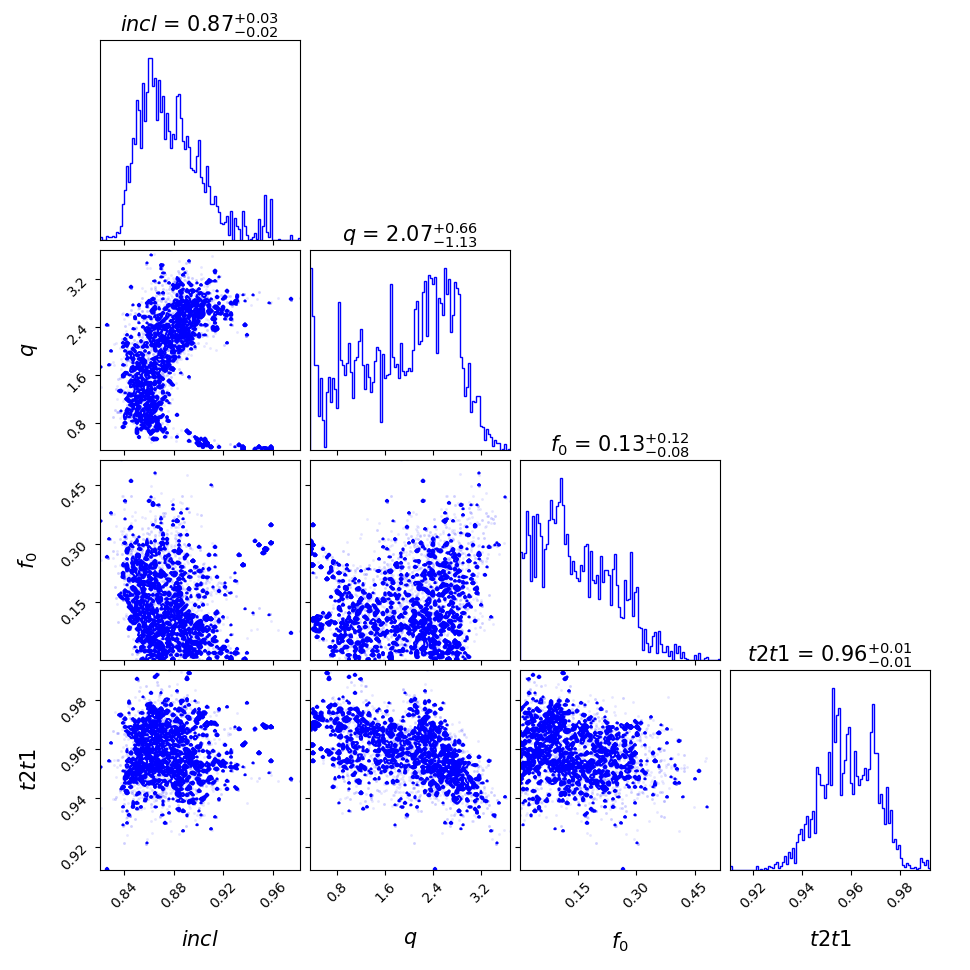
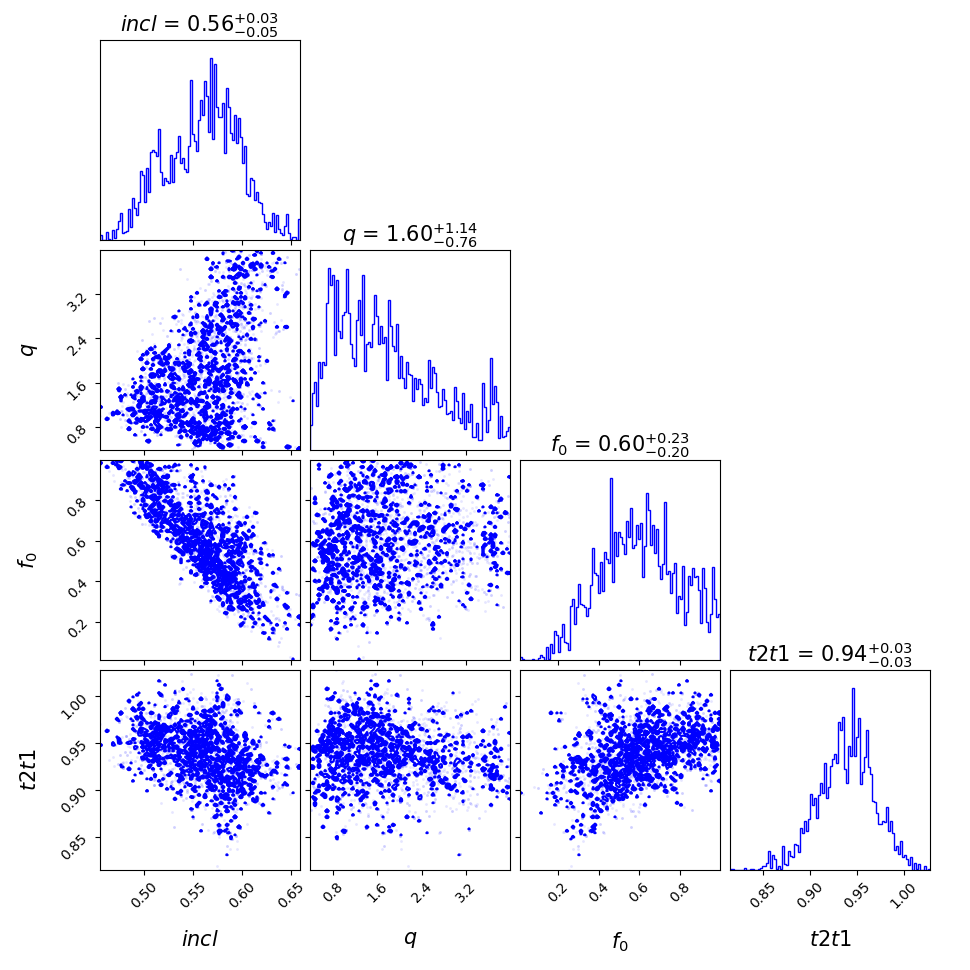
代码更新

diff --git a/code/ztfmcmcmodel/TESSMCMC/parameterslightcurve.py b/code/ztfmcmcmodel/TESSMCMC/parameterslightcurve.py
@@ -130,7 +130,7 @@ l3model10mc = load_model(path+'model10l3mc.hdf5')
 #data = np.loadtxt(path+file)
 
 path = 'E:\\shunbianyuan\\phometry\\pipelinecode\\ZTF\\code\\ztfmcmcmodel\\TESSMCMC\\EWDATA\\'
-file = 'TIC 1981434196.txt'
+file = 'TIC 123038007.txt'
 data = np.loadtxt(path+file)
 
 #fileone = 'ZTFtestdata.txt'
@@ -147,15 +147,15 @@ sigma = np.diff(noisy,2).std()/np.sqrt(6) #估计观测噪声值
 nwalkers = 20
 niter = 500
 nburn=200 #保留最后多少点用于计算
-index = 1
+index = 0
 
 #初始范围[T，incl,q,f,t2t1,l3] T/5850 incl/90 
-init_dist = [(1.01, 1.05), 
-             (0.7, 0.8),
-             (1, 4), 
-             (0.7, 0.9),
-             (0.89, 0.96),
-             (0.1,0.3)]
+init_dist = [(1.21+0.0001, 1.21+0.0002), 
+             (0.9, 0.99),
+             (0, 0.4), 
+             (0.2, 0.9),
+             (0.89, 1.2)
+            ]
 
 priors=init_dist.copy()
 ndim = len(priors) #维度数
@@ -200,8 +200,6 @@ def lnprob(z): #计算后仰概率
     if not np.isfinite(lnp):
             return -np.inf
          
-    print('it is ok')
-
     output = predict(z)
 
     lnp = -0.5*np.sum(np.log(2 * np.pi * sigma ** 2)+(output-noisy)**2/(sigma**2)) #计算似然函数
@@ -243,11 +241,11 @@ else:
 
 ####################绘图
 if index == 1:
-    figure = corner.corner(emcee_trace.T,bins=100,labels=[r"$Tem$", r"$incl$", r"$q$", r"$f_0$", r"$t2t1$", r"$l3$"],
+    figure = corner.corner(emcee_trace.T[:,1:],bins=100,labels=[r"$incl$", r"$q$", r"$f_0$", r"$t2t1$", r"$l3$"],
                        label_kwargs={"fontsize": 15},show_titles=True, title_kwargs={"fontsize": 15}, color ='blue')
 
 if index == 0:
-    figure = corner.corner(emcee_trace.T,bins=100,labels=[r"$Tem$", r"$incl$", r"$q$", r"$f_0$", r"$t2t1$"],
+    figure = corner.corner(emcee_trace.T[:,1:],bins=100,labels=[r"$incl$", r"$q$", r"$f_0$", r"$t2t1$"],
                        label_kwargs={"fontsize": 15},show_titles=True, title_kwargs={"fontsize": 15}, color ='blue')
     
 plt.savefig('corner.png')

diff --git a/code/ztfmcmcmodel/TESSMCMC/distributionparameters.py b/code/ztfmcmcmodel/TESSMCMC/distributionparameters.py
@@ -18,44 +18,50 @@ lightdata = np.loadtxt(path+'savedata01050Tl3.txt')
 
 plt.figure(0)
 T = lightdata[:,100]
-sns.kdeplot(T*5850,shade=True)
-plt.title('T',fontsize=18)
-plt.xlabel('T',fontsize=18)
-plt.ylabel('frequency',fontsize=18)
+#sns.kdeplot(T*5850,shade=True)
+plt.hist(T*5850, bins=1000)
+plt.title('T1',fontsize=18)
+plt.xlabel('T1',fontsize=18)
+plt.ylabel('number',fontsize=18)
 
 
 plt.figure(1)
 incldata = lightdata[:,102]
-sns.kdeplot(incldata,shade=True)
+#sns.kdeplot(incldata,shade=True)
+plt.hist(incldata, bins=1000)
 plt.title('incl',fontsize=18)
 plt.xlabel('incl',fontsize=18)
-plt.ylabel('frequency',fontsize=18)
+plt.ylabel('number',fontsize=18)
 
 plt.figure(2)
 qdata = lightdata[:,103]
-sns.kdeplot(qdata,shade=True)
+#sns.kdeplot(qdata,shade=True)
+plt.hist(qdata, bins=1000)
 plt.title('q',fontsize=18)
 plt.xlabel('q',fontsize=18)
-plt.ylabel('frequency',fontsize=18)
+plt.ylabel('number',fontsize=18)
 
 plt.figure(3)
 rdata = lightdata[:,104]
-sns.kdeplot(rdata,shade=True)
+#sns.kdeplot(rdata,shade=True)
+plt.hist(rdata, bins=1000)
 plt.title('f',fontsize=18)
 plt.xlabel('f',fontsize=18)
-plt.ylabel('frequency',fontsize=18)
+plt.ylabel('number',fontsize=18)
 
 plt.figure(4)
 tdata = lightdata[:,105]
-sns.kdeplot(tdata,shade=True)
+#sns.kdeplot(tdata,shade=True)
+plt.hist(tdata, bins=1000)
 plt.title('T2/T1',fontsize=18)
 plt.xlabel('T2/T1',fontsize=18)
-plt.ylabel('frequency',fontsize=18)
+plt.ylabel('number',fontsize=18)
 
 
 plt.figure(5)
-tdata = lightdata[:,106]
-sns.kdeplot(tdata,shade=True)
+l3data = lightdata[:,106]
+#sns.kdeplot(tdata,shade=True)
+plt.hist(l3data, bins=1000)
 plt.title('l3',fontsize=18)
 plt.xlabel('l3',fontsize=18)
-plt.ylabel('frequency',fontsize=18)
+plt.ylabel('number',fontsize=18)

diff --git a/code/ztfmcmcmodel/KeplerMC/parameterslightcurve.py b/code/ztfmcmcmodel/KeplerMC/parameterslightcurve.py
@@ -130,7 +130,7 @@ l3model10mc = load_model(mpath+'model10l3mc.hdf5')
 #data = np.loadtxt(path+file)
 
 path = 'E:\\shunbianyuan\\data\\kepler\\KIC_name\\'
-fileone = 'KIC 11618883.txt'
+fileone = 'KIC 3127873.txt'
 data = np.loadtxt(path+fileone)
 
 phrase = data[:,0]
@@ -144,15 +144,15 @@ sigma = np.diff(noisy,2).std()/np.sqrt(6) #估计观测噪声值
 nwalkers = 30
 niter = 500
 nburn=200 #保留最后多少点用于计算
-index = 1
+index = 0
 
 #初始范围[T/5850，incl/90,q,f,t2t1,l3]
-init_dist = [(0.70, 0.78), 
-             (0.84, 0.99), 
-             (0.20, 0.5), 
-             (0.65, 1), 
-             (0.90, 1.2),
-             (0.43, 1)]
+init_dist = [(1.06+0.0001, 1.06+0.0002), 
+             (0.84, 0.96), 
+             (0.04, 0.2), 
+             (0, 1), 
+             (0.8, 1.2)
+             ]
 
 priors=init_dist.copy()
 ndim = len(priors) #维度数
@@ -237,11 +237,11 @@ else:
 
 ####################绘图
 if index == 1:
-    figure = corner.corner(emcee_trace.T,bins=100,labels=[r"$Tem$", r"$incl$", r"$q$", r"$f_0$", r"$t2t1$", r"$l3$"],
+    figure = corner.corner(emcee_trace.T[:,1:],bins=100,labels=[r"$incl$", r"$q$", r"$f_0$", r"$t2t1$", r"$l3$"],
                        label_kwargs={"fontsize": 15},show_titles=True, title_kwargs={"fontsize": 15}, color ='blue')
 
 if index == 0:
-    figure = corner.corner(emcee_trace.T,bins=100,labels=[r"$Tem$", r"$incl$", r"$q$", r"$f_0$", r"$t2t1$"],
+    figure = corner.corner(emcee_trace.T[:,1:],bins=100,labels=[r"$incl$", r"$q$", r"$f_0$", r"$t2t1$"],
                        label_kwargs={"fontsize": 15},show_titles=True, title_kwargs={"fontsize": 15}, color ='blue')
     
 plt.savefig('corner.png')

diff --git a/code/ztfmcmcmodel/ZTFMCMC/parameterslightcurve.py b/code/ztfmcmcmodel/ZTFMCMC/parameterslightcurve.py
@@ -146,11 +146,12 @@ nburn=200 #保留最后多少点用于计算
 index = 0
 
 #初始范围[T/5850，incl/90,q,f,t2t1,l3]
-init_dist = [(0.8, 0.8), 
-             (0.77, 1.0), 
-             (0.1, 10), 
+init_dist = [(1+0.0001, 1+0.0002), 
+             (0.3, 0.75), 
+             (0, 4), 
              (0, 1), 
-             (0.90, 1)]
+             (0.80, 1.2)
+             ]
 
 priors=init_dist.copy()
 ndim = len(priors) #维度数
@@ -222,8 +223,16 @@ t1=time.time()
 emcee_trace  = run(priors, nwalkers, niter,nburn) #run mcmc
 print('time=',time.time()-t1) #MCMC运行时间
 
+#if index == 0:
+#    mu = [np.median(emcee_trace[0,:]), np.median(emcee_trace[1,:]), np.median(emcee_trace[2,:]), 
+#      np.median(emcee_trace[3,:]), np.median(emcee_trace[4,:])]
+#if index == 1:
+#    mu = [np.median(emcee_trace[0,:]), np.median(emcee_trace[1,:]), np.median(emcee_trace[2,:]), 
+#      np.median(emcee_trace[3,:]), np.median(emcee_trace[4,:]), np.median(emcee_trace[5,:])]
+#
+#mu = np.array(mu)  
 
-mu=(emcee_trace.mean(axis=1)) #参数均值
+mu=(emcee_trace.mean(axis=1)) #参数均值  
 sigma=(emcee_trace.std(axis=1)) #参数误差
 print('mu=',mu)
 print('sigma=',sigma)
@@ -250,7 +259,7 @@ pre=predict(mu.reshape(1,-1))
 plt.figure()
 ax = plt.gca()
 ax.plot(x,noisy,'.') #原始数据
-ax.plot(phrase+phrase[10], datay, '.', c = 'b')
+ax.plot(phrase-phrase[0], datay, '.', c = 'b')
 #ax.plot(x,pre.flatten(),'-r') #理论数据
 #ax.plot(times, resultflux, '*', c='g') #理论数据
 ax.plot(x, pre,'-r') #理论数据

diff --git a/code/ztfmcmcmodel/TESSMCMC/nol3distributionparameters.py b/code/ztfmcmcmodel/TESSMCMC/nol3distributionparameters.py
@@ -18,36 +18,41 @@ lightdata = np.loadtxt(path+'savedata01050T.txt')
 
 plt.figure(0)
 T = lightdata[:,100]
-sns.kdeplot(T*5850,shade=True)
-plt.title('T',fontsize=18)
-plt.xlabel('T',fontsize=18)
-plt.ylabel('frequency',fontsize=18)
+#sns.kdeplot(T*5850,shade=True)
+plt.hist(T*5850, bins=1000)
+plt.title('T1',fontsize=18)
+plt.xlabel('T1',fontsize=18)
+plt.ylabel('number',fontsize=18)
 
 
 plt.figure(1)
 incldata = lightdata[:,102]
-sns.kdeplot(incldata,shade=True)
+#sns.kdeplot(incldata,shade=True)
+plt.hist(incldata, bins=1000)
 plt.title('incl',fontsize=18)
 plt.xlabel('incl',fontsize=18)
-plt.ylabel('frequency',fontsize=18)
+plt.ylabel('number',fontsize=18)
 
 plt.figure(2)
 qdata = lightdata[:,103]
-sns.kdeplot(qdata,shade=True)
+#sns.kdeplot(qdata,shade=True)
+plt.hist(qdata, bins=1000)
 plt.title('q',fontsize=18)
 plt.xlabel('q',fontsize=18)
-plt.ylabel('frequency',fontsize=18)
+plt.ylabel('number',fontsize=18)
 
 plt.figure(3)
 rdata = lightdata[:,104]
-sns.kdeplot(rdata,shade=True)
+#sns.kdeplot(rdata,shade=True)
+plt.hist(rdata, bins=1000)
 plt.title('f',fontsize=18)
 plt.xlabel('f',fontsize=18)
-plt.ylabel('frequency',fontsize=18)
+plt.ylabel('number',fontsize=18)
 
 plt.figure(4)
 tdata = lightdata[:,105]
-sns.kdeplot(tdata,shade=True)
+#sns.kdeplot(tdata,shade=True)
+plt.hist(tdata, bins=1000)
 plt.title('T2/T1',fontsize=18)
 plt.xlabel('T2/T1',fontsize=18)
-plt.ylabel('frequency',fontsize=18)
+plt.ylabel('number',fontsize=18)

diff --git a/code/ztfmcmcmodel/ZTFMCMC/ztflightcurve.py b/code/ztfmcmcmodel/ZTFMCMC/ztflightcurve.py
@@ -206,8 +206,8 @@ def stddata(npjdmag, P):
     stdndata = np.std(yuandata)
     return stdndata/datanoise
 
-RAp = 0.01619
-DECp = 55.63331
+RAp = 290.10406494140625
+DECp = 37.82181167602539
 lcq = lightcurve.LCQuery.from_position(RAp, DECp, 1)   
 dfdata = lcq.data
 dfdata = dfdata[dfdata["filtercode"]=='zr']
